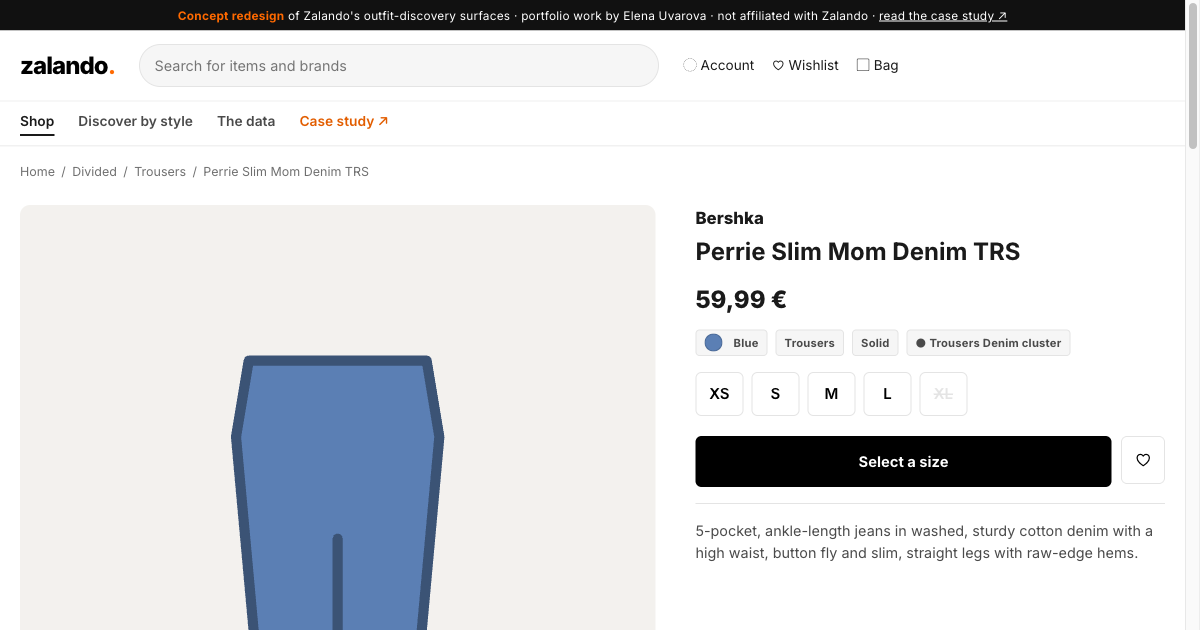
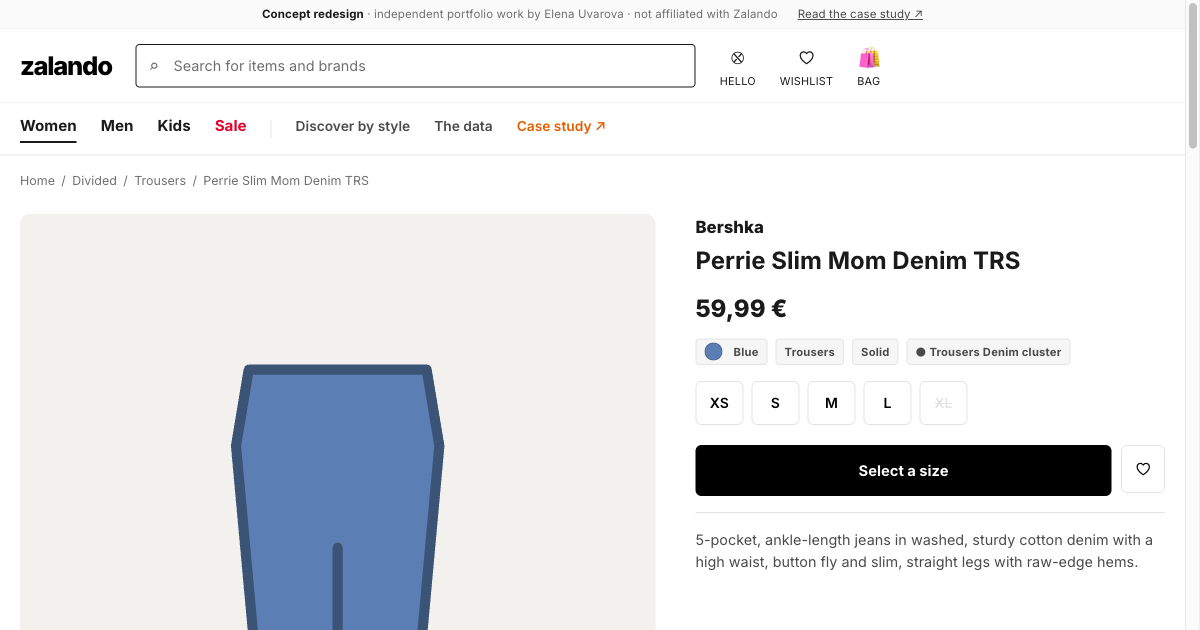
Polish: Notion case-study link, consolidate graphs to /analytics, official Zalando look
- Case-study links (header, footer, home, analytics) now point to the Notion page
  instead of GitHub.
- Removed the force-graph from /discover; all graphs + analytics now live only on
  /analytics, reached via a "See the data & graph" button. /discover is pure
  cluster-shopping navigation.
- Higher-fidelity Zalando look: plain "zalando" wordmark (no dot), bordered search
  with icon, stacked Hello/Wishlist/Bag, the Women·Men·Kids·Sale category nav
  (only the current category active), understated honesty ribbon, compact 14px
  base, image-forward product cards (dropped per-tile "illustrative" tags; honesty
  kept via ribbon + footer + PDP gallery note).
- Regenerated OG card to match.

diff --git a/frontend/src/styles.css b/frontend/src/styles.css
@@ -36,7 +36,7 @@
 
 * { box-sizing: border-box; }
 html { scroll-behavior: smooth; }
-body { margin: 0; background: var(--bg); color: var(--ink); font-size: 15px; line-height: 1.5; }
+body { margin: 0; background: var(--bg); color: var(--ink); font-size: 14px; line-height: 1.5; }
 a { color: inherit; text-decoration: none; }
 img { max-width: 100%; display: block; }
 button { font: inherit; cursor: pointer; }
@@ -45,33 +45,51 @@ button { font: inherit; cursor: pointer; }
 
 .wrap { max-width: var(--maxw); margin: 0 auto; padding: 0 1.25rem; }
 
-/* ---------- Concept disclaimer ribbon ---------- */
+/* ---------- Concept disclaimer ribbon (understated, honest) ---------- */
 .concept-ribbon {
-  background: #111; color: #fff; font-size: 0.74rem; letter-spacing: 0.02em;
-  text-align: center; padding: 0.4rem 1rem;
+  display: flex; align-items: center; justify-content: center; gap: 1.25rem; flex-wrap: wrap;
+  background: #fafafa; color: var(--ink-3); border-bottom: 1px solid var(--line-2);
+  font-size: 0.72rem; letter-spacing: 0.01em; padding: 0.35rem 1rem;
 }
-.concept-ribbon strong { color: var(--orange); }
-.concept-ribbon a { text-decoration: underline; }
+.concept-ribbon strong { color: var(--ink); font-weight: 700; }
+.concept-ribbon a { text-decoration: underline; color: var(--ink-2); }
+.concept-ribbon a:hover { color: var(--ink); }
 
 /* ---------- Header ---------- */
 .hdr { position: sticky; top: 0; z-index: 40; background: #fff; border-bottom: 1px solid var(--line); }
 .hdr-main { display: flex; align-items: center; gap: 1.5rem; padding: 0.85rem 1.25rem; max-width: var(--maxw); margin: 0 auto; }
-.logo { font-weight: 800; font-size: 1.5rem; letter-spacing: -0.04em; color: #000; }
-.logo .dot { color: var(--orange); }
-.hdr-search { flex: 1; max-width: 520px; position: relative; }
+.logo { font-weight: 800; font-size: 1.6rem; letter-spacing: -0.05em; color: #000; }
+.hdr-search { flex: 1; max-width: 560px; position: relative; }
+.hdr-search-ico { position: absolute; left: 0.8rem; top: 50%; transform: translateY(-50%); color: var(--ink-3); font-size: 1.1rem; pointer-events: none; }
 .hdr-search input {
-  width: 100%; padding: 0.6rem 0.9rem; border: 1px solid var(--line); border-radius: 999px;
-  background: var(--bg-soft); font: inherit; font-size: 0.9rem;
+  width: 100%; padding: 0.62rem 0.9rem 0.62rem 2.3rem; border: 1px solid var(--ink); border-radius: 4px;
+  background: #fff; font: inherit; font-size: 0.9rem;
 }
-.hdr-search input:focus { background: #fff; border-color: var(--ink-3); outline: none; }
-.hdr-icons { display: flex; gap: 1.1rem; align-items: center; color: var(--ink); font-size: 0.85rem; }
-.hdr-icons a { display: inline-flex; align-items: center; gap: 0.35rem; }
+.hdr-search input::placeholder { color: var(--ink-3); }
+.hdr-search input:focus { border-color: var(--ink); outline: none; box-shadow: 0 0 0 1px var(--ink); }
+.hdr-icons { display: flex; gap: 1.5rem; align-items: flex-start; }
+.hdr-icons a { display: inline-flex; flex-direction: column; align-items: center; gap: 0.1rem; color: var(--ink); font-size: 0.68rem; text-transform: uppercase; letter-spacing: 0.02em; }
+.hdr-icons .hi-ico { font-size: 1.15rem; }
 .hdr-icons a:hover { color: var(--orange-ink); }
+
+/* Category navigation (the Zalando hallmark) */
+.hdr-cats { border-top: 1px solid var(--line-2); }
+.hdr-cats .wrap { display: flex; align-items: center; gap: 1.5rem; padding-top: 0.7rem; padding-bottom: 0.7rem; overflow-x: auto; }
+.cat { font-size: 0.95rem; font-weight: 700; color: var(--ink); white-space: nowrap; padding-bottom: 4px; border-bottom: 2px solid transparent; }
+.cat:hover { border-bottom-color: var(--ink); }
+.cat.active { border-bottom-color: var(--ink); }
+.cat.sale { color: var(--sale); }
+.cat-div { width: 1px; height: 18px; background: var(--line); flex-shrink: 0; }
+.cat.link { font-weight: 600; font-size: 0.86rem; color: var(--ink-2); }
+.cat.link:hover { color: var(--ink); }
+.cat.link.on { color: var(--ink); border-bottom-color: var(--ink); }
+.cat.demo { color: var(--orange-ink); }
+
+/* Generic chip nav reused by the Shop filter */
 .hdr-nav { border-top: 1px solid var(--line-2); }
 .hdr-nav .wrap { display: flex; gap: 1.5rem; padding-top: 0.6rem; padding-bottom: 0.6rem; font-size: 0.86rem; font-weight: 600; overflow-x: auto; }
 .hdr-nav a { color: var(--ink-2); white-space: nowrap; padding-bottom: 2px; border-bottom: 2px solid transparent; }
 .hdr-nav a:hover, .hdr-nav a.active { color: var(--ink); border-bottom-color: var(--ink); }
-.hdr-nav a.demo { color: var(--orange-ink); }
 
 /* ---------- Buttons ---------- */
 .btn { display: inline-flex; align-items: center; justify-content: center; gap: 0.5rem;
@@ -106,10 +124,10 @@ button { font: inherit; cursor: pointer; }
 .price .was { color: var(--ink-3); text-decoration: line-through; font-weight: 500; margin-left: 0.4rem; font-size: 0.9em; }
 
 /* ---------- Product grid / cards ---------- */
-.grid { display: grid; grid-template-columns: repeat(auto-fill, minmax(200px, 1fr)); gap: 1.25rem 1rem; }
+.grid { display: grid; grid-template-columns: repeat(auto-fill, minmax(225px, 1fr)); gap: 1.75rem 1rem; }
 .pcard { position: relative; display: block; }
-.pcard .tile-wrap { position: relative; background: var(--bg-tile); border-radius: var(--radius); overflow: hidden; aspect-ratio: 3/4; }
-.pcard:hover .tile-wrap { box-shadow: var(--shadow-sm); }
+.pcard .tile-wrap { position: relative; background: var(--bg-tile); overflow: hidden; aspect-ratio: 3/4; }
+.pcard:hover .tile-wrap { box-shadow: inset 0 0 0 1px var(--line); }
 .pcard .wish { position: absolute; top: 8px; right: 8px; width: 34px; height: 34px; border-radius: 50%;
   background: rgba(255,255,255,0.9); border: none; display: grid; place-items: center; font-size: 0.95rem; }
 .pcard .wish:hover { background: #fff; }
@@ -182,9 +200,11 @@ button { font: inherit; cursor: pointer; }
 .look-creator .av { width: 40px; height: 40px; border-radius: 50%; background: linear-gradient(135deg,#ffb37a,#ff6900); display:grid; place-items:center; color:#fff; font-weight:800; }
 
 /* ---------- Discover ---------- */
+.disco-head { display: flex; justify-content: space-between; align-items: flex-end; gap: 1rem; flex-wrap: wrap; }
 .disco-clusters { display: grid; grid-template-columns: repeat(auto-fill, minmax(220px,1fr)); gap: 1rem; }
-.cluster-card { border: 1px solid var(--line); border-radius: 12px; padding: 1.1rem; background: #fff; text-align: left; transition: box-shadow 0.15s, border-color 0.15s; }
+.cluster-card { border: 1px solid var(--line); border-radius: 12px; padding: 1.1rem; background: #fff; text-align: left; cursor: pointer; transition: box-shadow 0.15s, border-color 0.15s; }
 .cluster-card:hover { box-shadow: var(--shadow); border-color: var(--line); }
+.cluster-card.sel { border-color: var(--ink); box-shadow: var(--shadow); }
 .cluster-card .cc-dot { width: 14px; height: 14px; border-radius: 50%; display: inline-block; margin-right: 0.5rem; }
 .cluster-card h3 { margin: 0.5rem 0 0.25rem; font-size: 1rem; }
 .cluster-card .cc-meta { font-size: 0.8rem; color: var(--ink-3); }
@@ -219,6 +239,7 @@ button { font: inherit; cursor: pointer; }
 .ftr h4 { font-size: 0.78rem; text-transform: uppercase; letter-spacing: 0.05em; color: var(--ink-3); margin: 0 0 0.6rem; }
 .ftr a { color: var(--ink-2); display: block; padding: 0.18rem 0; }
 .ftr a:hover { color: var(--ink); }
+.ftr-note { color: var(--ink-3); font-size: 0.84rem; line-height: 1.5; }
 .ftr-disclaim { border-top: 1px solid var(--line); margin-top: 1.5rem; padding-top: 1.25rem; font-size: 0.78rem; color: var(--ink-3); }
 .ftr-disclaim b { color: var(--ink-2); }
 

diff --git a/frontend/src/App.jsx b/frontend/src/App.jsx
@@ -5,14 +5,13 @@ import Product from "./pages/Product.jsx";
 import Look from "./pages/Look.jsx";
 import Discover from "./pages/Discover.jsx";
 import Analytics from "./pages/Analytics.jsx";
-
-const CASE_STUDY = "https://github.com/elenuvarova/zalando-project/blob/main/writing/case-study.md";
+import { CASE_STUDY, REPO } from "./api.js";
 
 function ConceptRibbon() {
   return (
     <div className="concept-ribbon">
-      <strong>Concept redesign</strong> of Zalando's outfit-discovery surfaces · portfolio work by Elena Uvarova · not
-      affiliated with Zalando · <a href={CASE_STUDY} target="_blank" rel="noopener noreferrer">read the case study ↗</a>
+      <span><strong>Concept redesign</strong> · independent portfolio work by Elena Uvarova · not affiliated with Zalando</span>
+      <a href={CASE_STUDY} target="_blank" rel="noopener noreferrer">Read the case study&nbsp;↗</a>
     </div>
   );
 }
@@ -21,24 +20,29 @@ function Header() {
   return (
     <header className="hdr">
       <div className="hdr-main">
-        <Link to="/" className="logo" aria-label="Home">zalando<span className="dot">.</span></Link>
+        <Link to="/" className="logo" aria-label="Home">zalando</Link>
         <div className="hdr-search">
+          <span className="hdr-search-ico" aria-hidden="true">⌕</span>
           <input type="search" placeholder="Search for items and brands" aria-label="Search" />
         </div>
         <nav className="hdr-icons" aria-label="Account">
-          <a href="#account" onClick={(e) => e.preventDefault()}>◌ Account</a>
-          <a href="#wishlist" onClick={(e) => e.preventDefault()}>♡ Wishlist</a>
-          <a href="#bag" onClick={(e) => e.preventDefault()}>▢ Bag</a>
+          <a href="#account" onClick={(e) => e.preventDefault()}><span className="hi-ico">⛒</span>Hello</a>
+          <a href="#wishlist" onClick={(e) => e.preventDefault()}><span className="hi-ico">♡</span>Wishlist</a>
+          <a href="#bag" onClick={(e) => e.preventDefault()}><span className="hi-ico">🛍</span>Bag</a>
         </nav>
       </div>
-      <div className="hdr-nav">
+      <nav className="hdr-cats" aria-label="Main">
         <div className="wrap">
-          <NavLink to="/shop">Shop</NavLink>
-          <NavLink to="/discover">Discover by style</NavLink>
-          <NavLink to="/analytics">The data</NavLink>
-          <a className="demo" href={CASE_STUDY} target="_blank" rel="noopener noreferrer">Case study ↗</a>
+          <Link to="/shop" className="cat active">Women</Link>
+          <Link to="/shop" className="cat">Men</Link>
+          <Link to="/shop" className="cat">Kids</Link>
+          <Link to="/shop" className="cat sale">Sale</Link>
+          <span className="cat-div" aria-hidden="true" />
+          <NavLink to="/discover" className={({ isActive }) => `cat link${isActive ? " on" : ""}`}>Discover by style</NavLink>
+          <NavLink to="/analytics" className={({ isActive }) => `cat link${isActive ? " on" : ""}`}>The data</NavLink>
+          <a className="cat link demo" href={CASE_STUDY} target="_blank" rel="noopener noreferrer">Case study ↗</a>
         </div>
-      </div>
+      </nav>
     </header>
   );
 }
@@ -50,18 +54,18 @@ function Footer() {
         <div className="ftr-cols">
           <div>
             <h4>The redesign</h4>
-            <Link to="/shop">Shop (redesigned PDP)</Link>
-            <Link to="/discover">Discover by style cluster</Link>
-            <Link to="/analytics">The data behind it</Link>
+            <Link to="/shop">Shop the redesign</Link>
+            <Link to="/discover">Discover by style</Link>
+            <Link to="/analytics">The data &amp; graphs</Link>
           </div>
           <div>
             <h4>Project</h4>
-            <a href={CASE_STUDY} target="_blank" rel="noopener noreferrer">Full case study</a>
-            <a href="https://github.com/elenuvarova/zalando-project" target="_blank" rel="noopener noreferrer">Source on GitHub</a>
+            <a href={CASE_STUDY} target="_blank" rel="noopener noreferrer">Full case study (Notion)</a>
+            <a href={REPO} target="_blank" rel="noopener noreferrer">Source on GitHub</a>
           </div>
           <div>
             <h4>What's real</h4>
-            <span style={{ color: "var(--ink-3)", fontSize: "0.86rem" }}>Product names, colours &amp; outfit recommendations are derived from the H&amp;M Kaggle dataset (a proxy).</span>
+            <span className="ftr-note">Product names, colours &amp; outfit recommendations are derived from the H&amp;M Kaggle dataset (used as a proxy). Imagery, prices &amp; brands are illustrative.</span>
           </div>
         </div>
         <p className="ftr-disclaim">

diff --git a/frontend/src/pages/Discover.jsx b/frontend/src/pages/Discover.jsx
@@ -1,10 +1,7 @@
-import { lazy, Suspense } from "react";
-import { useSearchParams, useNavigate, Link } from "react-router-dom";
+import { useSearchParams, Link } from "react-router-dom";
 import { useApi } from "../api.js";
 import { GarmentTile } from "../garment.jsx";
 import { Spinner, Empty, ProductCard } from "../ui.jsx";
-
-const StyleClustersGraph = lazy(() => import("../StyleClustersGraph.jsx"));
 
 function ClusterProducts({ id }) {
   const { data, loading } = useApi(`/communities/${id}`);
@@ -28,7 +25,6 @@ function ClusterProducts({ id }) {
 
 export default function Discover() {
   const [params, setParams] = useSearchParams();
-  const navigate = useNavigate();
   const selected = params.get("c");
   const { data: communities, loading } = useApi("/communities");
   const { data: looks } = useApi("/looks");
@@ -36,16 +32,16 @@ export default function Discover() {
   return (
     <div className="wrap">
       <nav className="crumb"><span>Home / Discover by style</span></nav>
-      <h1 style={{ fontSize: "1.6rem", margin: "0.25rem 0" }}>Discover by style cluster</h1>
-      <p className="sub" style={{ color: "var(--ink-2)", maxWidth: "64ch" }}>
-        Our fix for the broken "more from this creator" rabbit hole: navigation by <b>aesthetic affinity</b> instead of by
-        category. Each cluster is a Louvain community detected from real co-purchase behaviour. Click a node to open the item,
-        or a cluster below to browse it.
-      </p>
-
-      <Suspense fallback={<Spinner label="Loading the style-cluster graph…" />}>
-        <StyleClustersGraph onNodeSelect={(nodeId) => navigate(`/shop/product/${nodeId}`)} />
-      </Suspense>
+      <div className="disco-head">
+        <div>
+          <h1 style={{ fontSize: "1.6rem", margin: "0.25rem 0" }}>Discover by style cluster</h1>
+          <p className="sub" style={{ color: "var(--ink-2)", maxWidth: "60ch", margin: 0 }}>
+            Our fix for the broken "more from this creator" rabbit hole: browse by <b>aesthetic affinity</b> instead of by
+            category. Each cluster is a community of items real customers buy together. Pick one to shop it.
+          </p>
+        </div>
+        <Link to="/analytics" className="btn btn-outline">▦ See the data &amp; graph →</Link>
+      </div>
 
       {loading && <Spinner />}
       {communities && (
@@ -53,7 +49,7 @@ export default function Discover() {
           {communities.map((c) => (
             <button
               key={c.id}
-              className="cluster-card"
+              className={`cluster-card${selected === String(c.id) ? " sel" : ""}`}
               onClick={() => setParams(selected === String(c.id) ? {} : { c: String(c.id) })}
             >
               <span className="cc-dot" style={{ background: c.hex }} />
@@ -65,7 +61,9 @@ export default function Discover() {
         </div>
       )}
 
-      {selected && <ClusterProducts id={selected} />}
+      {selected ? <ClusterProducts id={selected} /> : (
+        <p className="sub" style={{ marginTop: "1.25rem", color: "var(--ink-3)" }}>Select a cluster above to browse its items.</p>
+      )}
 
       {looks && looks.length > 0 && (
         <section className="section">
@@ -78,7 +76,6 @@ export default function Discover() {
                   {l.anchor && (
                     <GarmentTile hex={l.anchor.hex} slot={l.anchor.slot} appearance={l.anchor.appearance} label={l.title} />
                   )}
-                  <span className="gtile-note">look</span>
                 </div>
                 <div className="pmeta">
                   <div className="pbrand" style={{ textTransform: "capitalize" }}>{l.title}</div>

diff --git a/frontend/src/pages/Analytics.jsx b/frontend/src/pages/Analytics.jsx
@@ -1,11 +1,10 @@
 import { lazy, Suspense } from "react";
 import { Link } from "react-router-dom";
-import { useApi } from "../api.js";
+import { useApi, CASE_STUDY } from "../api.js";
 import { Spinner } from "../ui.jsx";
 
 const StyleClustersGraph = lazy(() => import("../StyleClustersGraph.jsx"));
 
-const CASE_STUDY = "https://github.com/elenuvarova/zalando-project/blob/main/writing/case-study.md";
 const METHODOLOGY = "https://github.com/elenuvarova/zalando-project/blob/main/data/methodology.md";
 
 const FINDINGS = [

diff --git a/frontend/src/api.js b/frontend/src/api.js
@@ -1,5 +1,9 @@
 import { useEffect, useState } from "react";
 
+// The written case study lives in Notion (publish it to web so visitors can open it).
+export const CASE_STUDY = "https://www.notion.so/3772ead75652811cbb73e5ca14e56c63";
+export const REPO = "https://github.com/elenuvarova/zalando-project";
+
 // Same-origin /api — Vite proxies to the backend in dev; Express serves it in prod.
 export async function api(path, signal) {
   const res = await fetch(`/api${path}`, { signal });

diff --git a/frontend/src/pages/Product.jsx b/frontend/src/pages/Product.jsx
@@ -11,7 +11,6 @@ function OutfitCard({ item }) {
     <div className="outfit-card">
       <Link to={`/shop/product/${item.id}`} className="tile-wrap">
         <GarmentTile hex={item.hex} slot={item.slot} appearance={item.appearance} label={`${item.colour} ${item.productType}`} />
-        <span className="gtile-note">illustrative</span>
       </Link>
       <div className="oc-body">
         <span className="oc-slot">{item.slotLabel}</span>

diff --git a/frontend/src/pages/Home.jsx b/frontend/src/pages/Home.jsx
@@ -1,8 +1,6 @@
 import { Link } from "react-router-dom";
-import { useApi } from "../api.js";
+import { useApi, CASE_STUDY } from "../api.js";
 import { ProductCard } from "../ui.jsx";
-
-const CASE_STUDY = "https://github.com/elenuvarova/zalando-project/blob/main/writing/case-study.md";
 
 export default function Home() {
   // Feature a few products that have rich outfits (trousers/denim land well).

diff --git a/frontend/src/ui.jsx b/frontend/src/ui.jsx
@@ -51,7 +51,6 @@ export function ProductCard({ p }) {
         >
           ♡
         </button>
-        <span className="gtile-note">illustrative</span>
       </div>
       <div className="pmeta">
         <div className="pbrand">{p.brand}</div>
